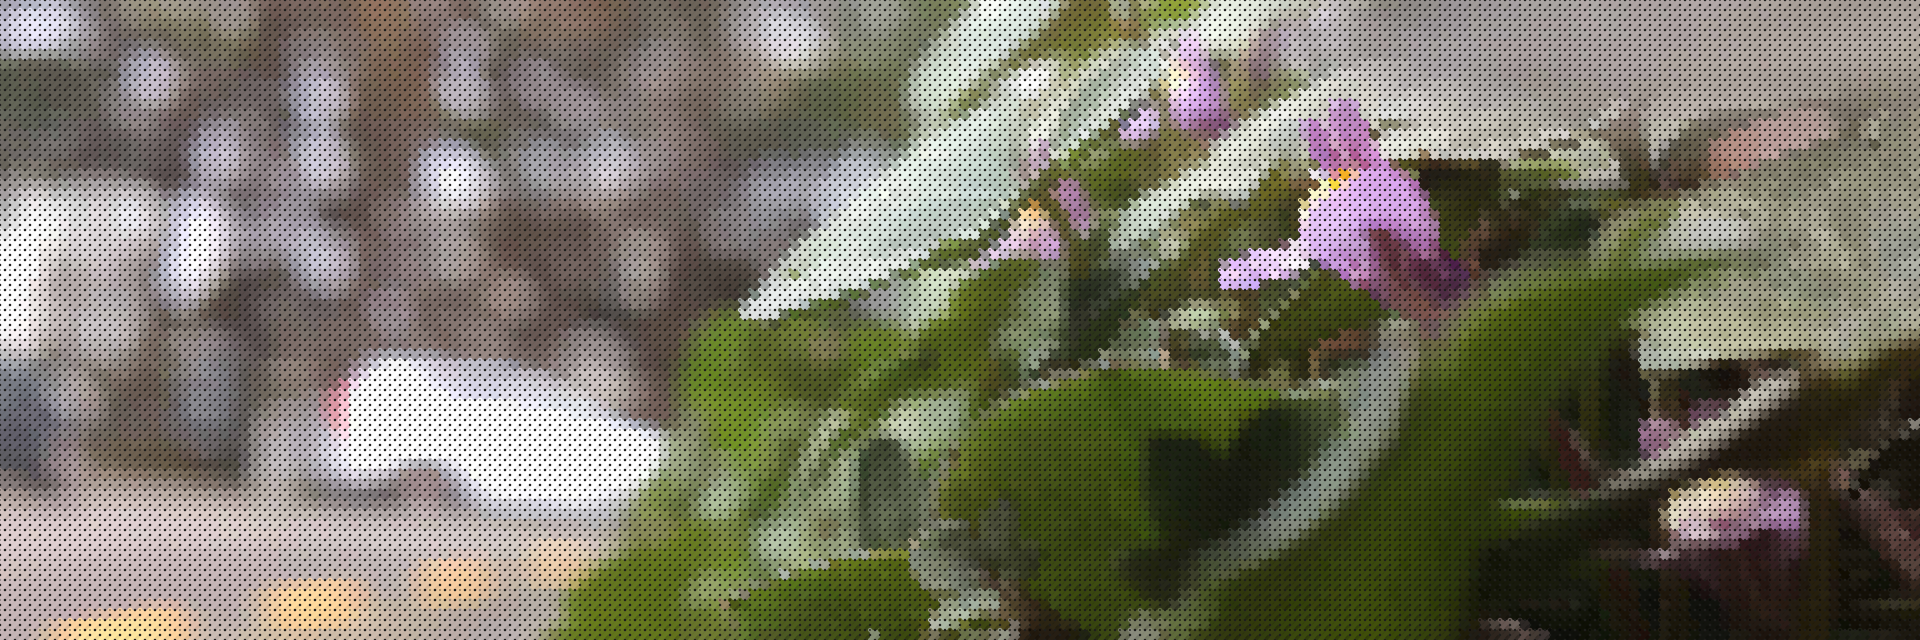
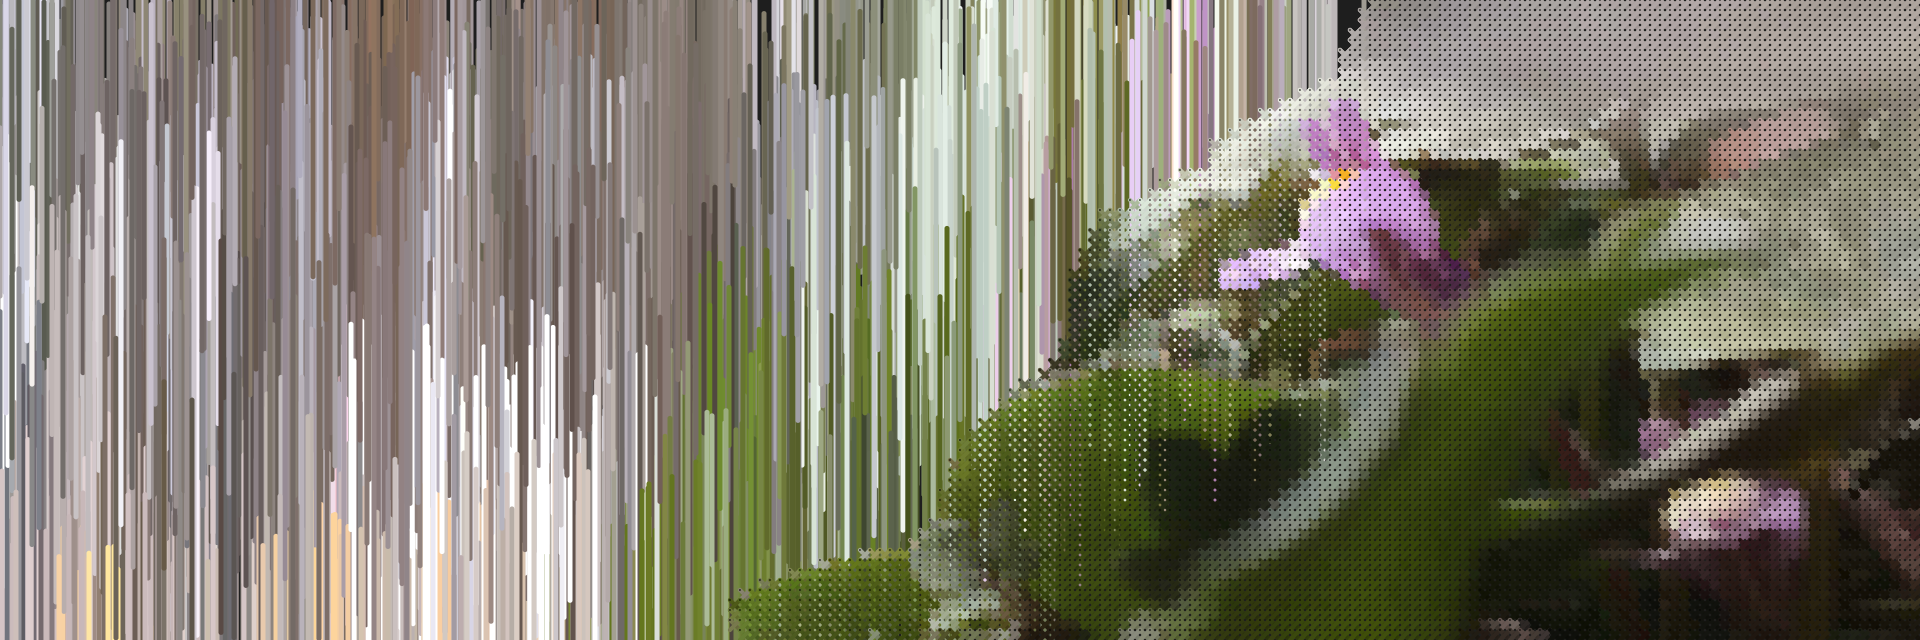
ebroidery

diff --git a/sketch.js b/sketch.js
@@ -34,7 +34,7 @@ function setup () {
 
 function draw () {
   pointSize = 20;
-  //embroider();
+  embroider();
   pointSize = 10;
   crossStitch();
   drawHoles();
@@ -72,12 +72,12 @@ function crossStitch() {
       let pix = sourceImg.get(x, y);
       let mask = maskImg.get(x, y);
 
-      //if (mask[0] < 128) {
+      if (mask[0] < 128) {
         cross(x,y,pointSize,pix);
         stroke(0,0,0,80);
         strokeWeight(2);
         point(x,y);
-      //}
+      }
     }
   }
 }
@@ -128,7 +128,7 @@ function embroider(){
     fill(pix);
     stroke(pix[0], pix[1], pix[2], pix)
     strokeWeight(5);
-    //if (mask[0] > 128) {
+    if (mask[0] > 128) {
       push();
       translate(x,y);
       let r = random(pointSize*4,pointSize*20);
@@ -136,7 +136,7 @@ function embroider(){
       //ellipse(0,0,pointSize/2,random(pointSize*4,pointSize*20));
 
       pop();
-    //}
+    }
   }
 }
 

diff --git a/README.md b/README.md
@@ -1,5 +1,5 @@
 ## Creative Coding 2: Custom Pixel
 
-My theme for my project I've decided to call "by the way side".
-These are things that are just on the side of the road that are often forgotten or not closely examined. 
-I thought it would be interesting to look at as I find myself more and more these days missing the little things and stopping to smell the roses. 
+The cross stitch I feel isn't quite enough, 
+To exentuate the cross stitch I decided to make the background mimic embroider with lines.
+Hopefully this will create more contrast between the foreground and background elements
